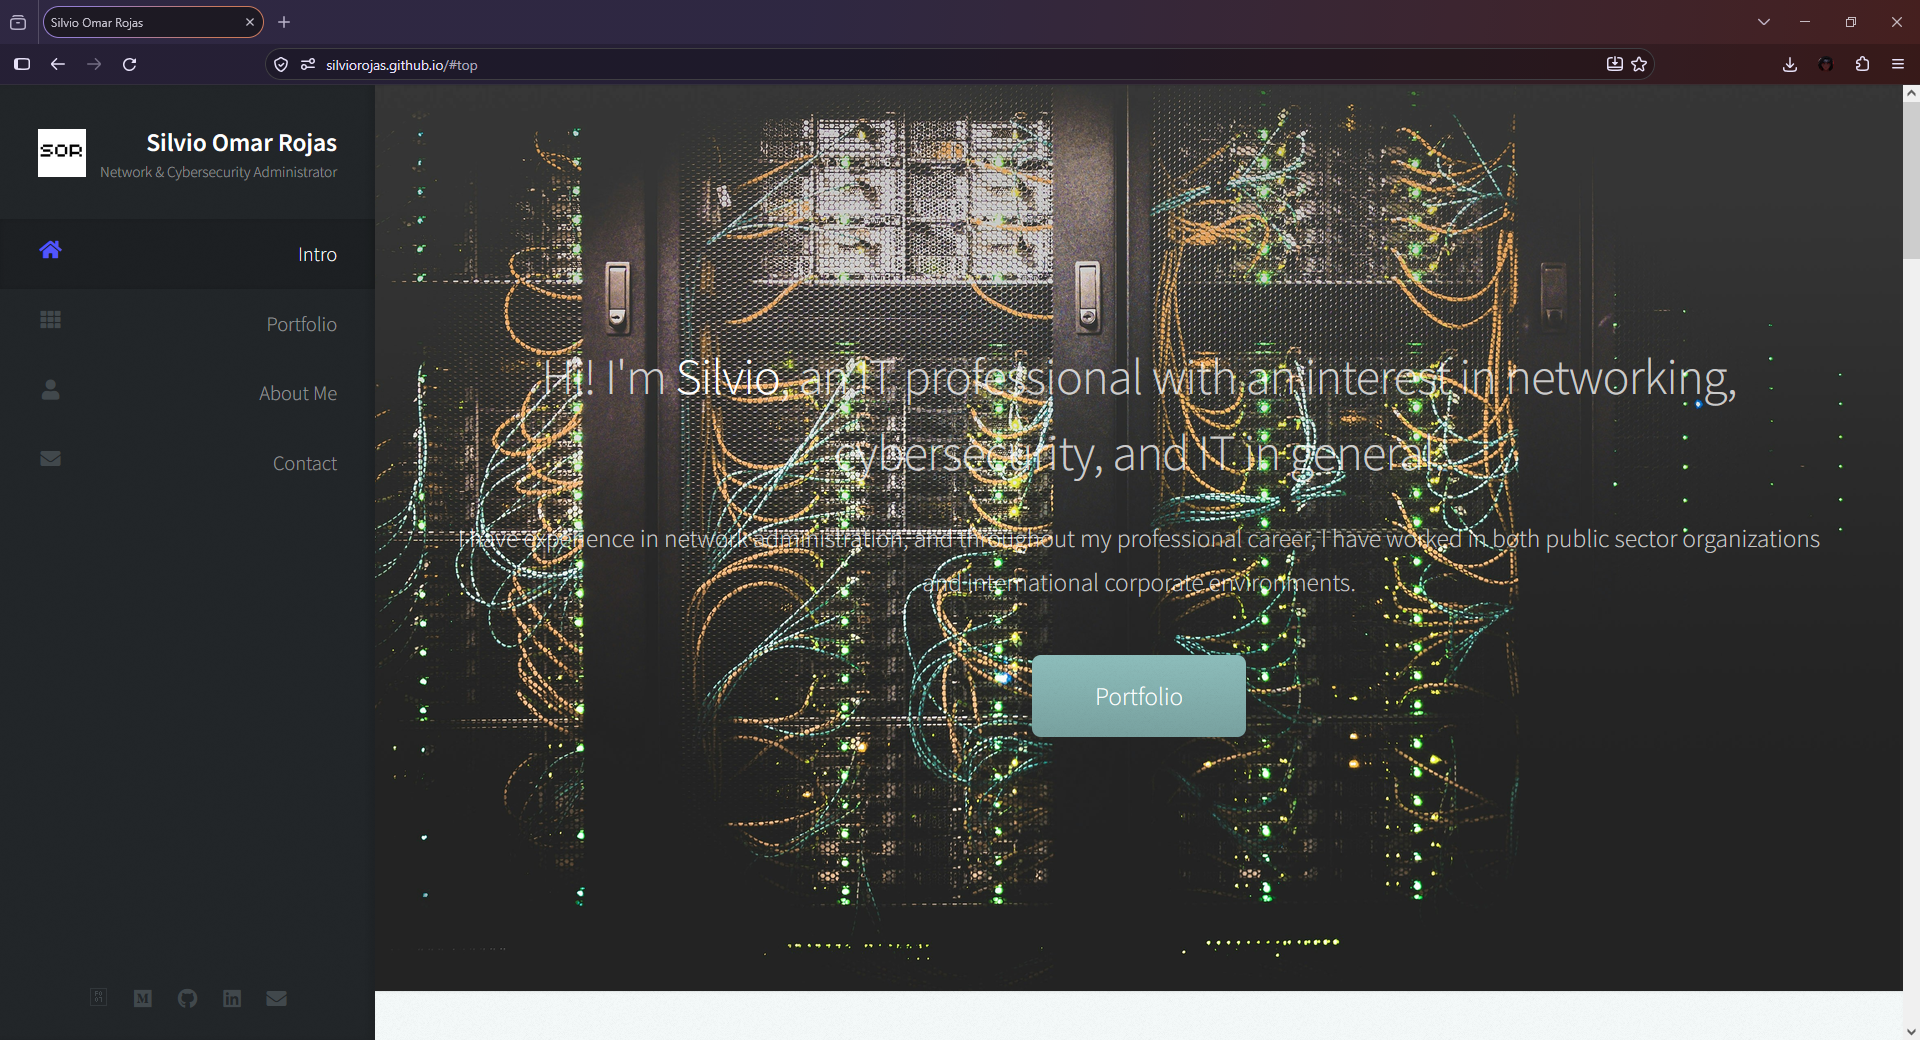
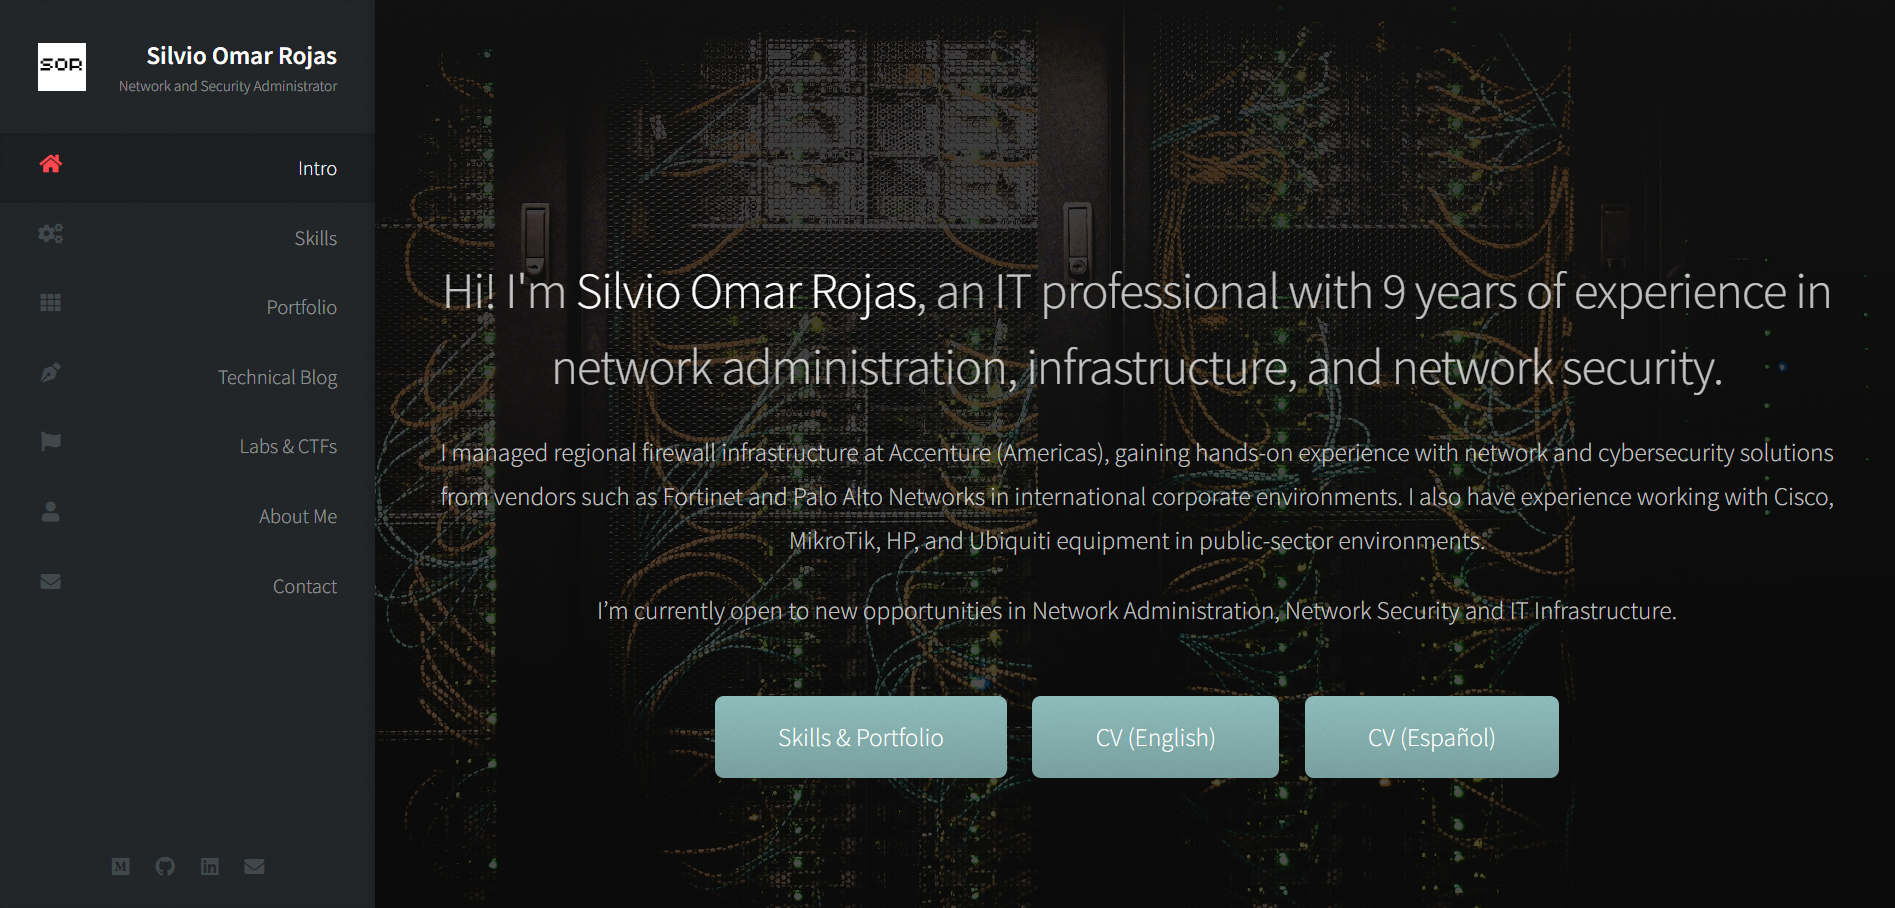
Now the project modal image opens in the lightbox

diff --git a/assets/js/lightbox.js b/assets/js/lightbox.js
@@ -1,15 +1,19 @@
 (function () {
     const images = Array.from(document.querySelectorAll('.about-gallery img'));
+    const projectImg = document.getElementById('pm-img');   // image inside the project modal
     const lightbox = document.getElementById('lightbox');
     const lbImg = document.getElementById('lb-img');
     const lbCaption = document.getElementById('lb-caption');
-    if (!images.length || !lightbox) return;
+    if (!lightbox || (!images.length && !projectImg)) return;
 
+    let items = images;          // images the lightbox is currently navigating
     let current = 0;
+    let prevOverflow = '';       // body overflow before opening (the project modal locks it too)
+    let lastFocus = null;
 
     function show(index, direction) {
-        current = (index + images.length) % images.length;
-        const img = images[current];
+        current = (index + items.length) % items.length;
+        const img = items[current];
 
         const apply = () => {
             lbImg.src = img.dataset.full || img.src;
@@ -27,23 +31,44 @@
         }
     }
 
-    const next = () => show(current + 1, 'next');
-    const prev = () => show(current - 1, 'prev');
+    const next = () => { if (items.length > 1) show(current + 1, 'next'); };
+    const prev = () => { if (items.length > 1) show(current - 1, 'prev'); };
 
-    function open(index) {
+    // list: the set of images to navigate (defaults to the About gallery).
+    // With a single image, the arrows are hidden via the .single class.
+    function open(index, list) {
+        items = list || images;
+        lightbox.classList.toggle('single', items.length < 2);
         show(index);
+
+        lastFocus = document.activeElement;
+        prevOverflow = document.body.style.overflow;
         lightbox.classList.add('open');
         lightbox.setAttribute('aria-hidden', 'false');
         document.body.style.overflow = 'hidden';
+        lightbox.querySelector('.lb-close').focus();
     }
 
     function close() {
         lightbox.classList.remove('open');
         lightbox.setAttribute('aria-hidden', 'true');
-        document.body.style.overflow = '';
+        // Restore the previous value: if the project modal is open underneath,
+        // the page must stay locked.
+        document.body.style.overflow = prevOverflow;
+        if (lastFocus) lastFocus.focus();
     }
 
+    // About gallery
     images.forEach((img, i) => img.addEventListener('click', () => open(i)));
+
+    // Project modal image (single-image mode)
+    if (projectImg) {
+        projectImg.addEventListener('click', () => {
+            if (!projectImg.getAttribute('src')) return;
+            open(0, [projectImg]);
+        });
+    }
+
     lightbox.querySelector('.lb-close').addEventListener('click', close);
     lightbox.querySelector('.lb-prev').addEventListener('click', prev);
     lightbox.querySelector('.lb-next').addEventListener('click', next);
@@ -55,7 +80,12 @@
     // Keyboard
     document.addEventListener('keydown', (e) => {
         if (!lightbox.classList.contains('open')) return;
-        if (e.key === 'Escape') close();
+        if (e.key === 'Escape') {
+            // This file loads before project-modal.js, so stopping propagation here
+            // keeps Escape from also closing the project modal underneath.
+            e.stopImmediatePropagation();
+            close();
+        }
         if (e.key === 'ArrowLeft') prev();
         if (e.key === 'ArrowRight') next();
     });

diff --git a/assets/css/custom.css b/assets/css/custom.css
@@ -309,3 +309,10 @@
     transition: none;
   }
 }
+
+/* Project modal image: opens in the lightbox */
+#pm-img { cursor: zoom-in; }
+
+/* Lightbox with a single image: no arrows */
+.lightbox.single .lb-prev,
+.lightbox.single .lb-next { display: none; }
